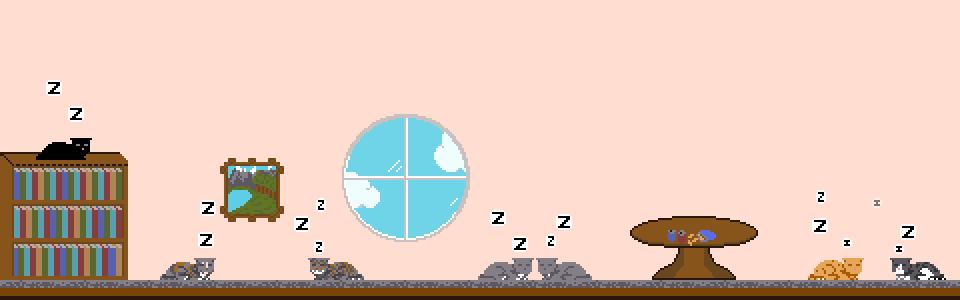
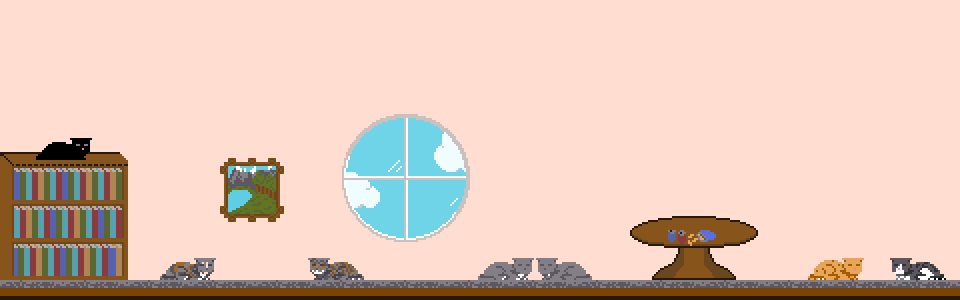
hello snoozles

diff --git a/src/game/modal.c b/src/game/modal.c
@@ -16,6 +16,16 @@ void hello_begin() {
   play_song(RID_song_noodlecat);
 }
 
+/* Snoozles for the hello cats.
+ */
+ 
+static void hello_snoozle(int x,int y,int p) {
+  y=FBH-300+y;
+  p=(p+g.hello_frame)&15;
+  int srcx=p*32;
+  graf_decal_rotate(&g.graf,x,y,srcx,256,32,0.0,1.0,2.0);
+}
+
 /* Render Hello.
  */
  
@@ -28,7 +38,17 @@ void hello_render() {
   graf_set_image(&g.graf,RID_image_titletext);
   graf_decal(&g.graf,(FBW>>1)-135,30,0,0,270,240);
   
-  // I'd like to render the cats and snores as tiles so we can animate them. But the static ones are scaled up.
+  /* Snoozles for the cats in the background image.
+   */
+  graf_set_image(&g.graf,RID_image_sprites);
+  hello_snoozle(480,-140, 9);
+  hello_snoozle( 67,102, 4);
+  hello_snoozle(192,222, 6);
+  hello_snoozle(323,222, 1);
+  hello_snoozle(502,222,10);
+  hello_snoozle(563,222, 5);
+  hello_snoozle(839,222, 3);
+  hello_snoozle(906,222,12);
   
   /* Show best score and time if present.
    */
@@ -174,8 +194,13 @@ void modal_update(double elapsed) {
   int result=0;
   if (g.level_intro) result=modal_update_1(&g.level_intro,elapsed);
   else if (g.level_report) result=modal_update_1(&g.level_report,elapsed);
-  else if (g.hello) result=modal_update_1(&g.hello,elapsed);
-  else if (g.gameover) {
+  else if (g.hello) {
+    result=modal_update_1(&g.hello,elapsed);
+    if ((g.hello_clock-=elapsed)<=0.0) {
+      g.hello_clock+=0.100;
+      if (++(g.hello_frame)>=16) g.hello_frame=0;
+    }
+  } else if (g.gameover) {
     result=modal_update_1(&g.gameover,elapsed);
     g.gameover_clock+=elapsed;
     if (g.gameover_tempo>0.0) {

diff --git a/src/game/younap.h b/src/game/younap.h
@@ -71,6 +71,8 @@ extern struct g {
   double gameover_clock;
   double gameover_headt;
   double gameover_tempo; // bobble period in seconds
+  double hello_clock;
+  int hello_frame;
   
   /* Session score.
    * Resets when dismissing Hello.

diff --git a/README.md b/README.md
@@ -15,5 +15,6 @@ Guide the cats to the sunbeams so they can take a nap.
 - - Delete save file, then do an all-out speed run, should be 20 s or so. Then do a 100% run without restarting the program.
 - [x] Separate Any% and 100% times for reporting.
 - [x] Provisional level set.
-- [ ] Final level set.
-- [ ] Final graphics and sound.
+- [x] Final level set.
+- [x] Final graphics and sound.
+- [x] hello snoozles
